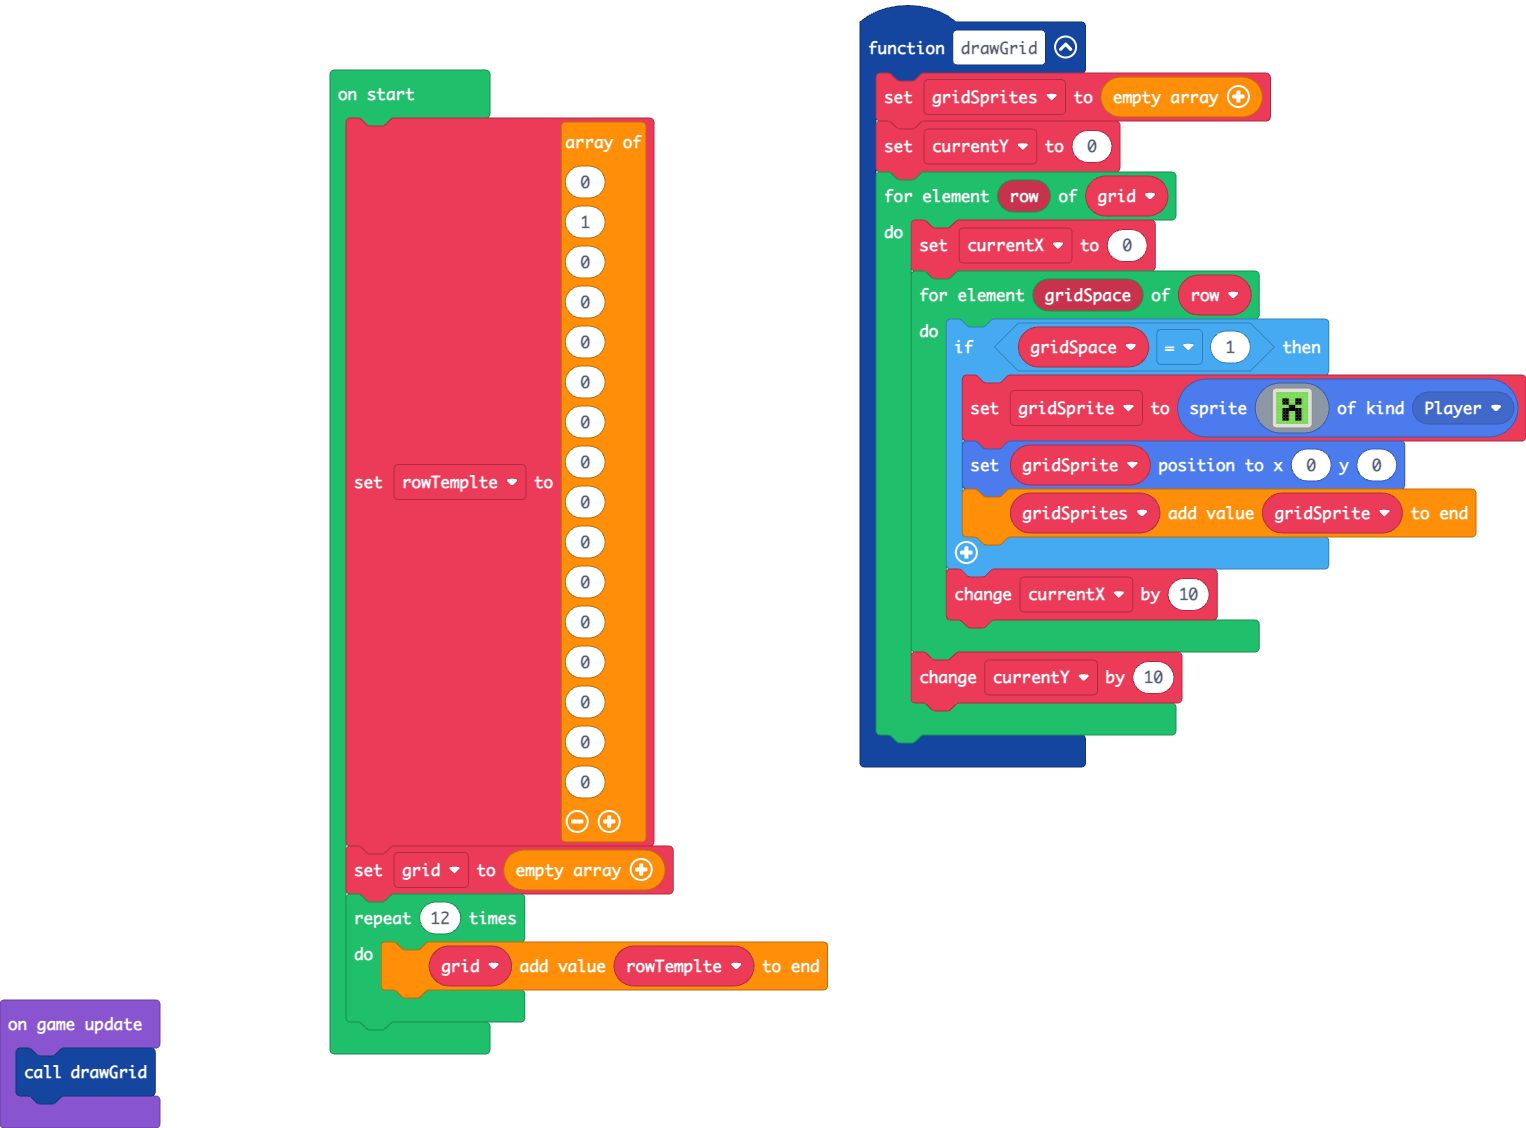
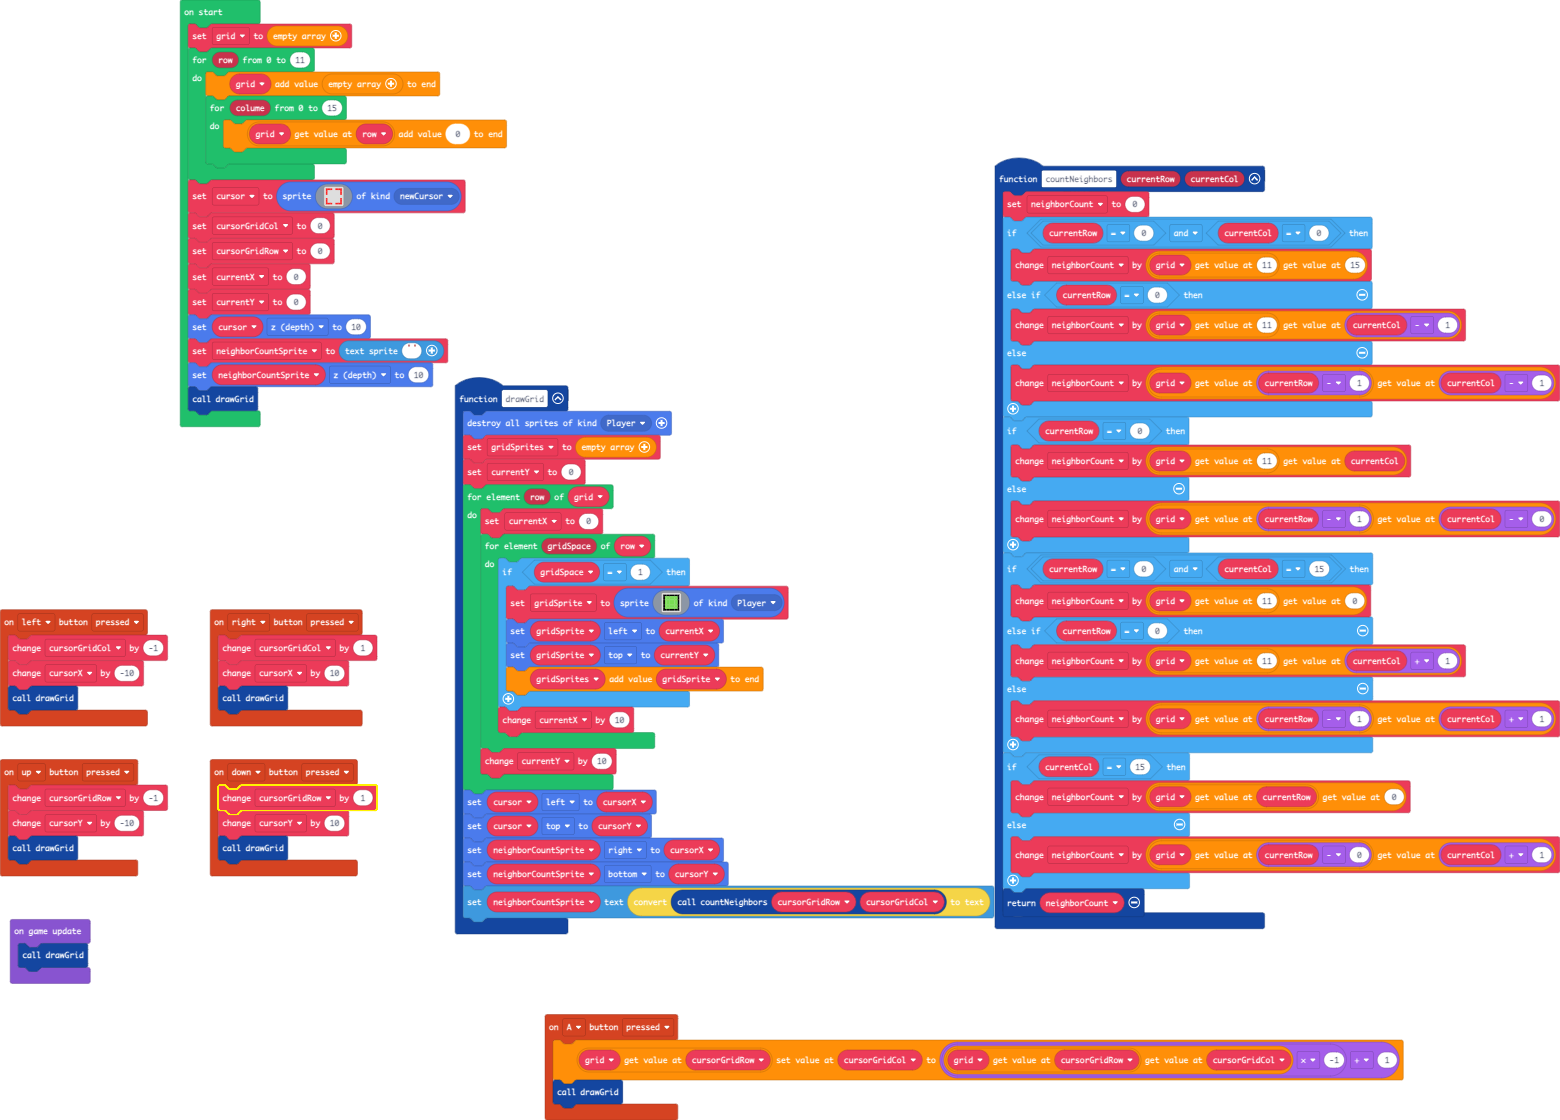
working on count neighbors

diff --git a/main.ts b/main.ts
@@ -1,4 +1,27 @@
+namespace SpriteKind {
+    export const newCursor = SpriteKind.create()
+}
+controller.up.onEvent(ControllerButtonEvent.Pressed, function () {
+    cursorGridRow += -1
+    cursorY += -10
+    drawGrid()
+})
+controller.A.onEvent(ControllerButtonEvent.Pressed, function () {
+    grid[cursorGridRow][cursorGridCol] = grid[cursorGridRow][cursorGridCol] * -1 + 1
+    drawGrid()
+})
+controller.left.onEvent(ControllerButtonEvent.Pressed, function () {
+    cursorGridCol += -1
+    cursorX += -10
+    drawGrid()
+})
+controller.right.onEvent(ControllerButtonEvent.Pressed, function () {
+    cursorGridCol += 1
+    cursorX += 10
+    drawGrid()
+})
 function drawGrid () {
+    sprites.destroyAllSpritesOfKind(SpriteKind.Player)
     gridSprites = []
     currentY = 0
     for (let row of grid) {
@@ -6,52 +29,103 @@ function drawGrid () {
         for (let gridSpace of row) {
             if (gridSpace == 1) {
                 gridSprite = sprites.create(img`
-                    7 7 7 7 7 7 7 7 7 7 
-                    7 7 7 7 7 7 7 7 7 7 
-                    7 7 f f 7 7 f f 7 7 
-                    7 7 f f 7 7 f f 7 7 
-                    7 7 7 7 f f 7 7 7 7 
-                    7 7 f f f f f f 7 7 
-                    7 7 f f 7 7 f f 7 7 
-                    7 7 f f 7 7 f f 7 7 
-                    7 7 f f 7 7 f f 7 7 
-                    7 7 7 7 7 7 7 7 7 7 
+                    f f f f f f f f f f 
+                    f 7 7 7 7 7 7 7 7 f 
+                    f 7 7 7 7 7 7 7 7 f 
+                    f 7 7 7 7 7 7 7 7 f 
+                    f 7 7 7 7 7 7 7 7 f 
+                    f 7 7 7 7 7 7 7 7 f 
+                    f 7 7 7 7 7 7 7 7 f 
+                    f 7 7 7 7 7 7 7 7 f 
+                    f 7 7 7 7 7 7 7 7 f 
+                    f f f f f f f f f f 
                     `, SpriteKind.Player)
-                gridSprite.setPosition(0, 0)
+                gridSprite.left = currentX
+                gridSprite.top = currentY
                 gridSprites.push(gridSprite)
             }
             currentX += 10
         }
         currentY += 10
     }
+    cursor.left = cursorX
+    cursor.top = cursorY
+    neighborCountSprite.right = cursorX
+    neighborCountSprite.bottom = cursorY
+    neighborCountSprite.setText(convertToText(countNeighbors(cursorGridRow, cursorGridCol)))
 }
+function countNeighbors (currentRow: number, currentCol: number) {
+    neighborCount = 0
+    if (currentRow == 0 && currentCol == 0) {
+        neighborCount += grid[11][15]
+    } else if (currentRow == 0) {
+        neighborCount += grid[11][currentCol - 1]
+    } else {
+        neighborCount += grid[currentRow - 1][currentCol - 1]
+    }
+    if (currentRow == 0) {
+        neighborCount += grid[11][currentCol]
+    } else {
+        neighborCount += grid[currentRow - 1][currentCol - 0]
+    }
+    if (currentRow == 0 && currentCol == 15) {
+        neighborCount += grid[11][0]
+    } else if (currentRow == 0) {
+        neighborCount += grid[11][currentCol + 1]
+    } else {
+        neighborCount += grid[currentRow - 1][currentCol + 1]
+    }
+    if (currentCol == 15) {
+        neighborCount += grid[currentRow][0]
+    } else {
+        neighborCount += grid[currentRow - 0][currentCol + 1]
+    }
+    return neighborCount
+}
+controller.down.onEvent(ControllerButtonEvent.Pressed, function () {
+    cursorGridRow += 1
+    cursorY += 10
+    drawGrid()
+})
+let neighborCount = 0
 let gridSprite: Sprite = null
-let currentX: number = null
-let currentY: number = null
 let gridSprites: Sprite[] = []
+let cursorX = 0
+let cursorY = 0
+let neighborCountSprite: TextSprite = null
+let currentY = 0
+let currentX = 0
+let cursorGridRow = 0
+let cursorGridCol = 0
+let cursor: Sprite = null
 let grid: number[][] = []
-let rowTemplte = [
-0,
-1,
-0,
-0,
-0,
-0,
-0,
-0,
-0,
-0,
-0,
-0,
-0,
-0,
-0,
-0
-]
 grid = []
-for (let index = 0; index < 12; index++) {
-    grid.push(rowTemplte)
+for (let row = 0; row <= 11; row++) {
+    grid.push([])
+    for (let colume = 0; colume <= 15; colume++) {
+        grid[row].push(0)
+    }
 }
+cursor = sprites.create(img`
+    2 2 2 2 . . 2 2 2 2 
+    2 . . . . . . . . 2 
+    2 . . . . . . . . 2 
+    2 . . . . . . . . 2 
+    . . . . . . . . . . 
+    . . . . . . . . . . 
+    2 . . . . . . . . 2 
+    2 . . . . . . . . 2 
+    2 . . . . . . . . 2 
+    2 2 2 2 . . 2 2 2 2 
+    `, SpriteKind.newCursor)
+cursorGridCol = 0
+cursorGridRow = 0
+currentX = 0
+currentY = 0
+cursor.z = 10
+neighborCountSprite = textsprite.create("")
+neighborCountSprite.z = 10
+drawGrid()
 game.onUpdate(function () {
     drawGrid()
 })
